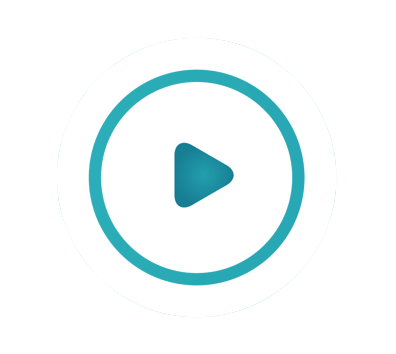
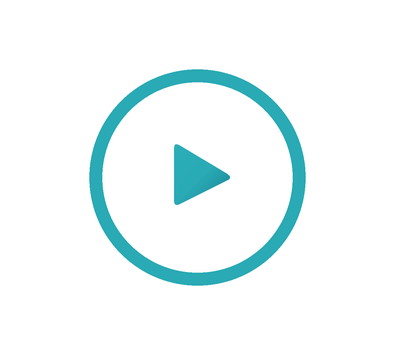
feat: teal rebrand, four situation rails, search console plumbing
Swaps the four color tokens to the approved teal set (light #2BAEB9,
deep #177E94) and re-exports the play button asset with the gradient
midpoint #29AAB4. Adds the four situation rails in the approved order
after This Season, each with ten rows that resolve against the artifact
and clear the eight-row depth floor. Adds robots.txt and sitemap.xml
for the Search Console Domain property.

Also fixes an accessible-name collision the wider rails exposed: two
stories from one episode can share a page, so the play button label now
carries the segment title.

diff --git a/public/styles.css b/public/styles.css
@@ -3,12 +3,14 @@
   --muted: #5b6472;
   --paper: #faf8f4;
   --card: #ffffff;
-  --accent: #2c6e63;
-  --accent-soft: #e7f0ed;
-  /* Teal sampled from Allie's play logo: a restrained accent for the play
-     button, focus rings, and the count chip. Not a palette redesign. */
-  --teal: #28a8b0;
-  --teal-soft: #e2f4f6;
+  --accent: #177e94;
+  --accent-soft: #e3eef3;
+  /* Approved teal set: deep #177e94, light #2baeb9, gradient midpoint
+     #29aab4 (the midpoint lives in the play button asset, not the CSS).
+     A restrained accent for buttons, focus rings, and the count chip.
+     Not a palette redesign. */
+  --teal: #2baeb9;
+  --teal-soft: #e0f3f5;
   --line: #e3ded4;
 }
 

diff --git a/public/index.html b/public/index.html
@@ -35,7 +35,7 @@
           id="search-input"
           type="search"
           name="q"
-          placeholder="my kid is scared of the dark"
+          placeholder="nervous about the first day of school"
           autocomplete="off"
           autofocus
           aria-label="Describe your kid's situation">
